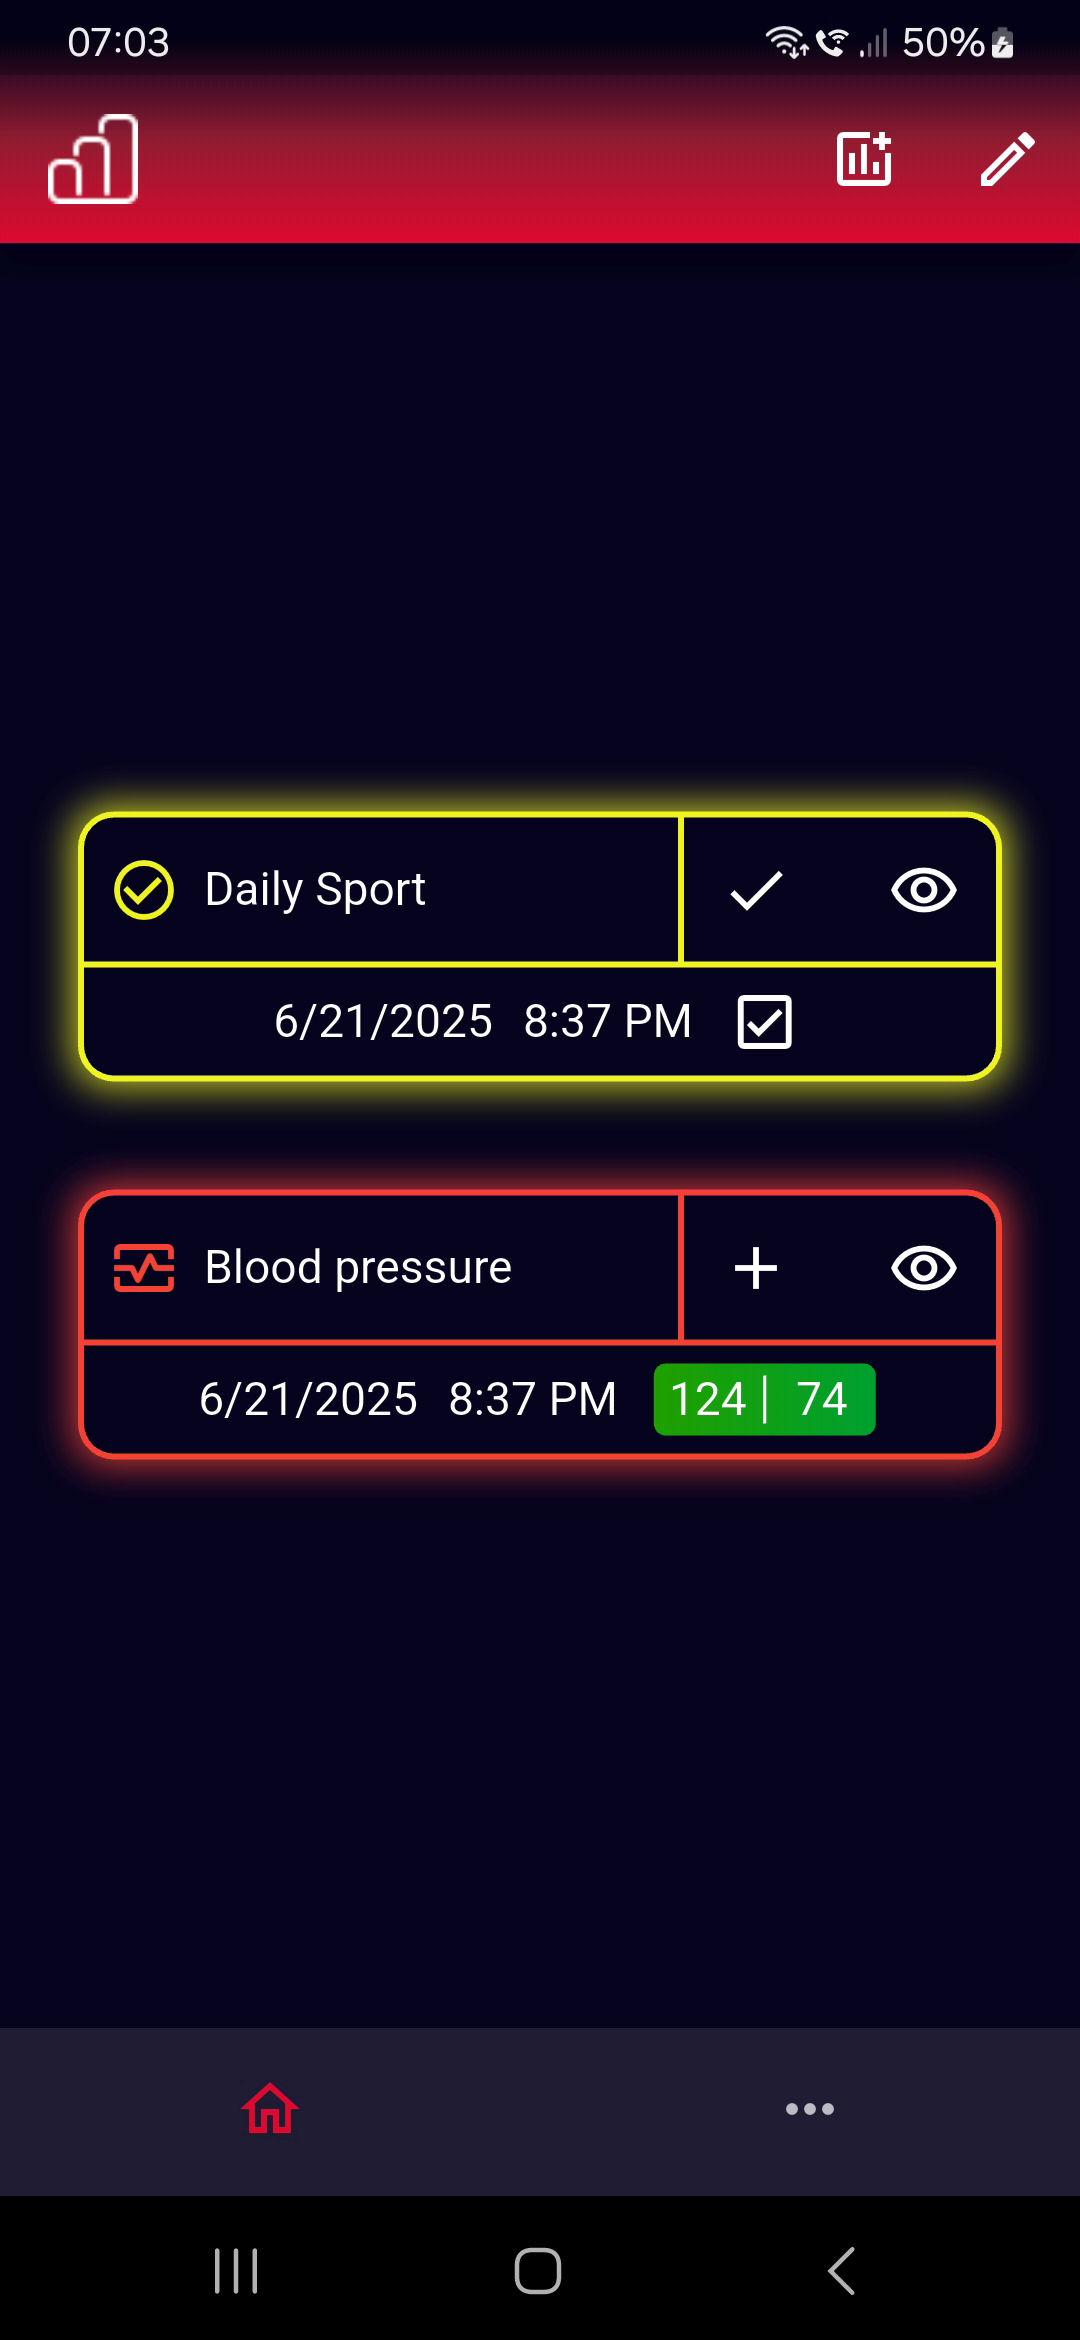
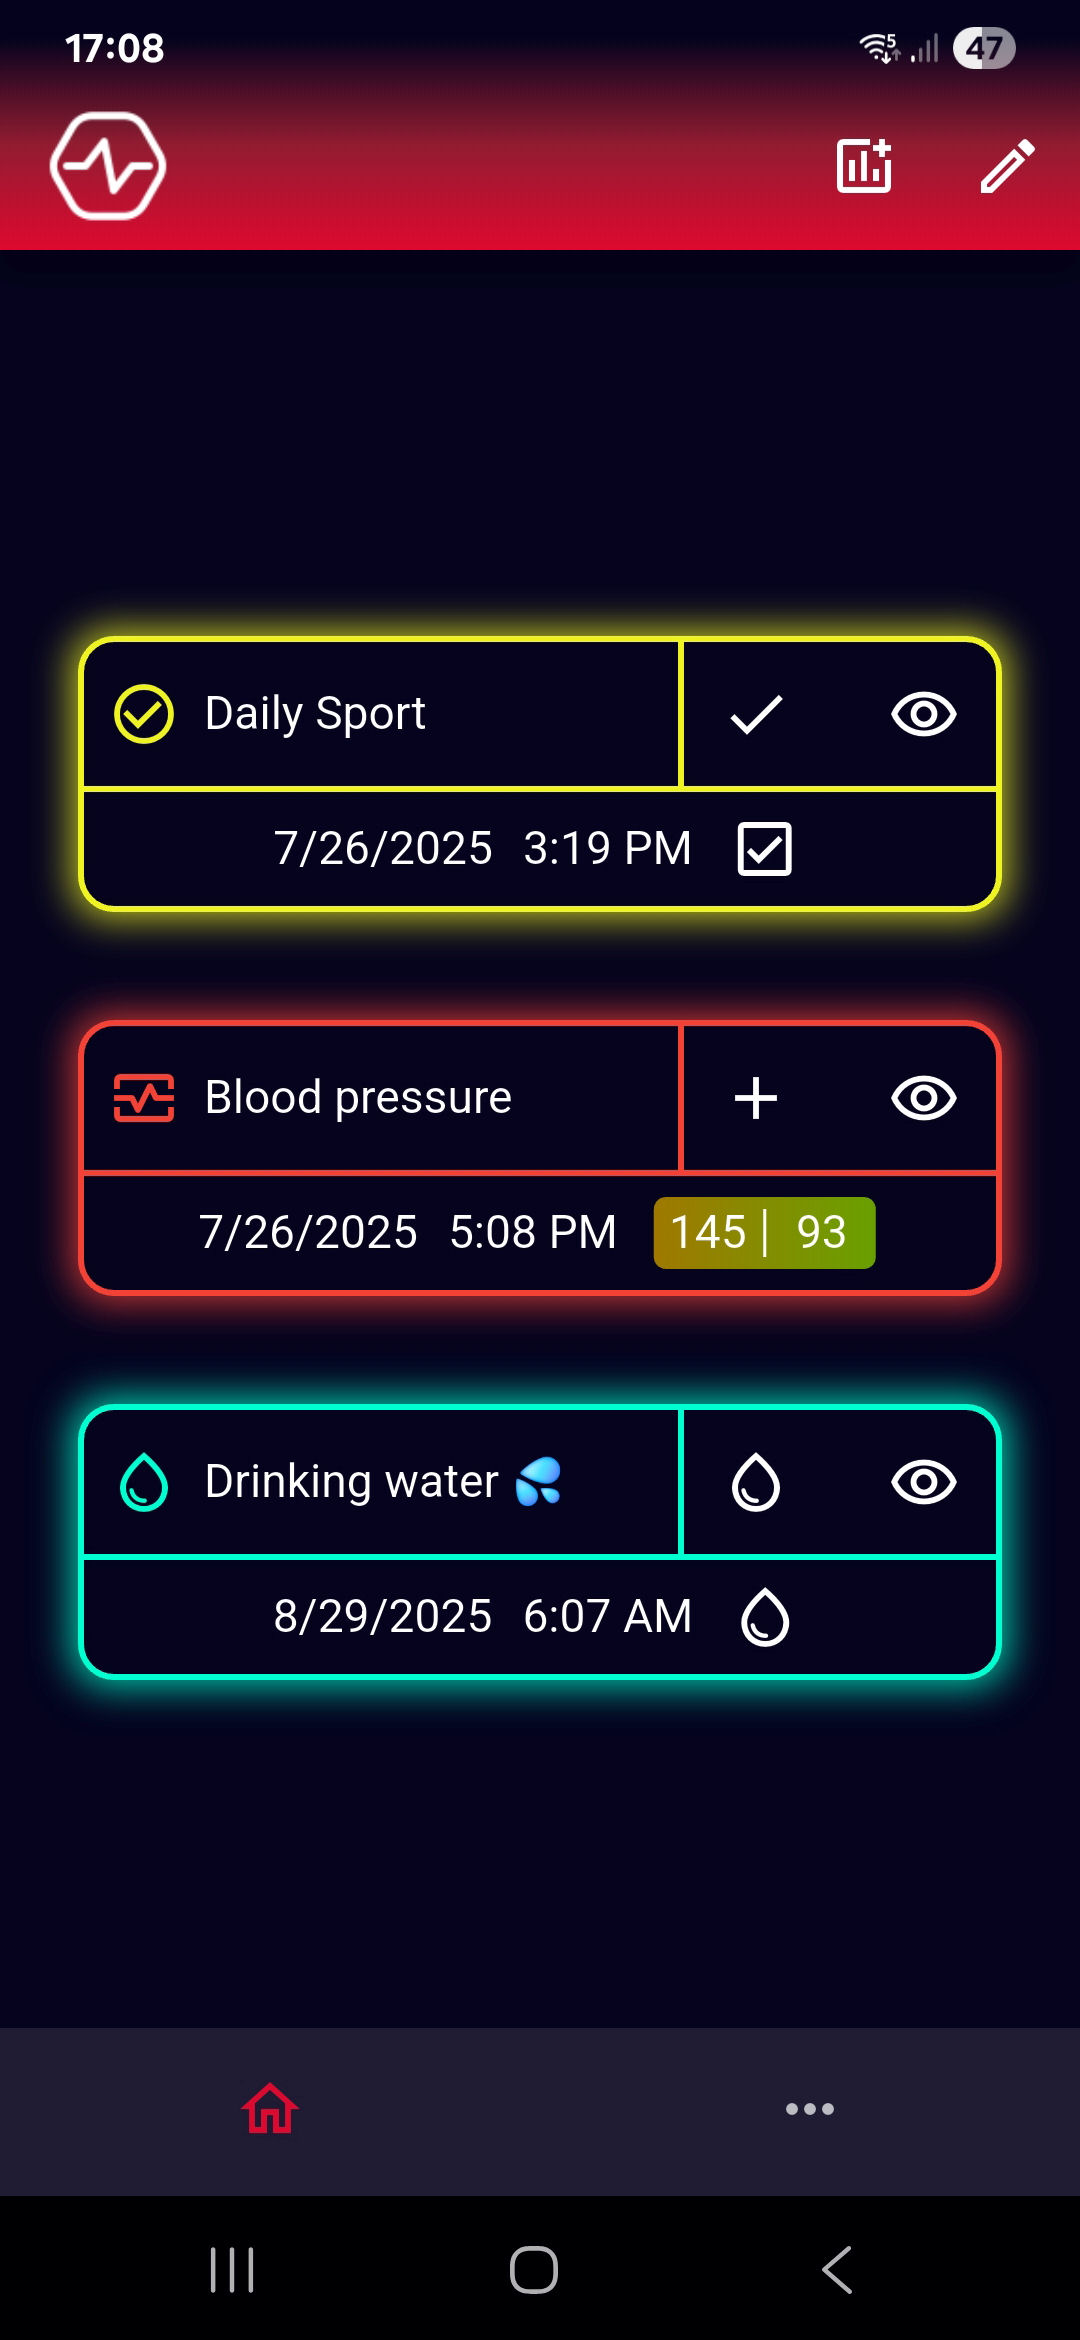
update readme screenshots

diff --git a/README.md b/README.md
@@ -11,3 +11,7 @@ Tracker / monitoring app for blood pressure, daily checks and more...
 <img src="resources/readme/screenshot_blood_pressure_view%20(1).jpg" width="300" alt="screenshot blood pressure table view">
 <img src="resources/readme/screenshot_blood_pressure_view%20(2).jpg" width="300" alt="screenshot blood pressure overview">
 <img src="resources/readme/screenshot_blood_pressure_view%20(3).jpg" width="300" alt="screenshot blood pressure line chart view">
+
+### Habits
+
+<img src="resources/readme/screenshot_habit_pixels_view.jpg" width="300" alt="screenshot blood pressure table view">
